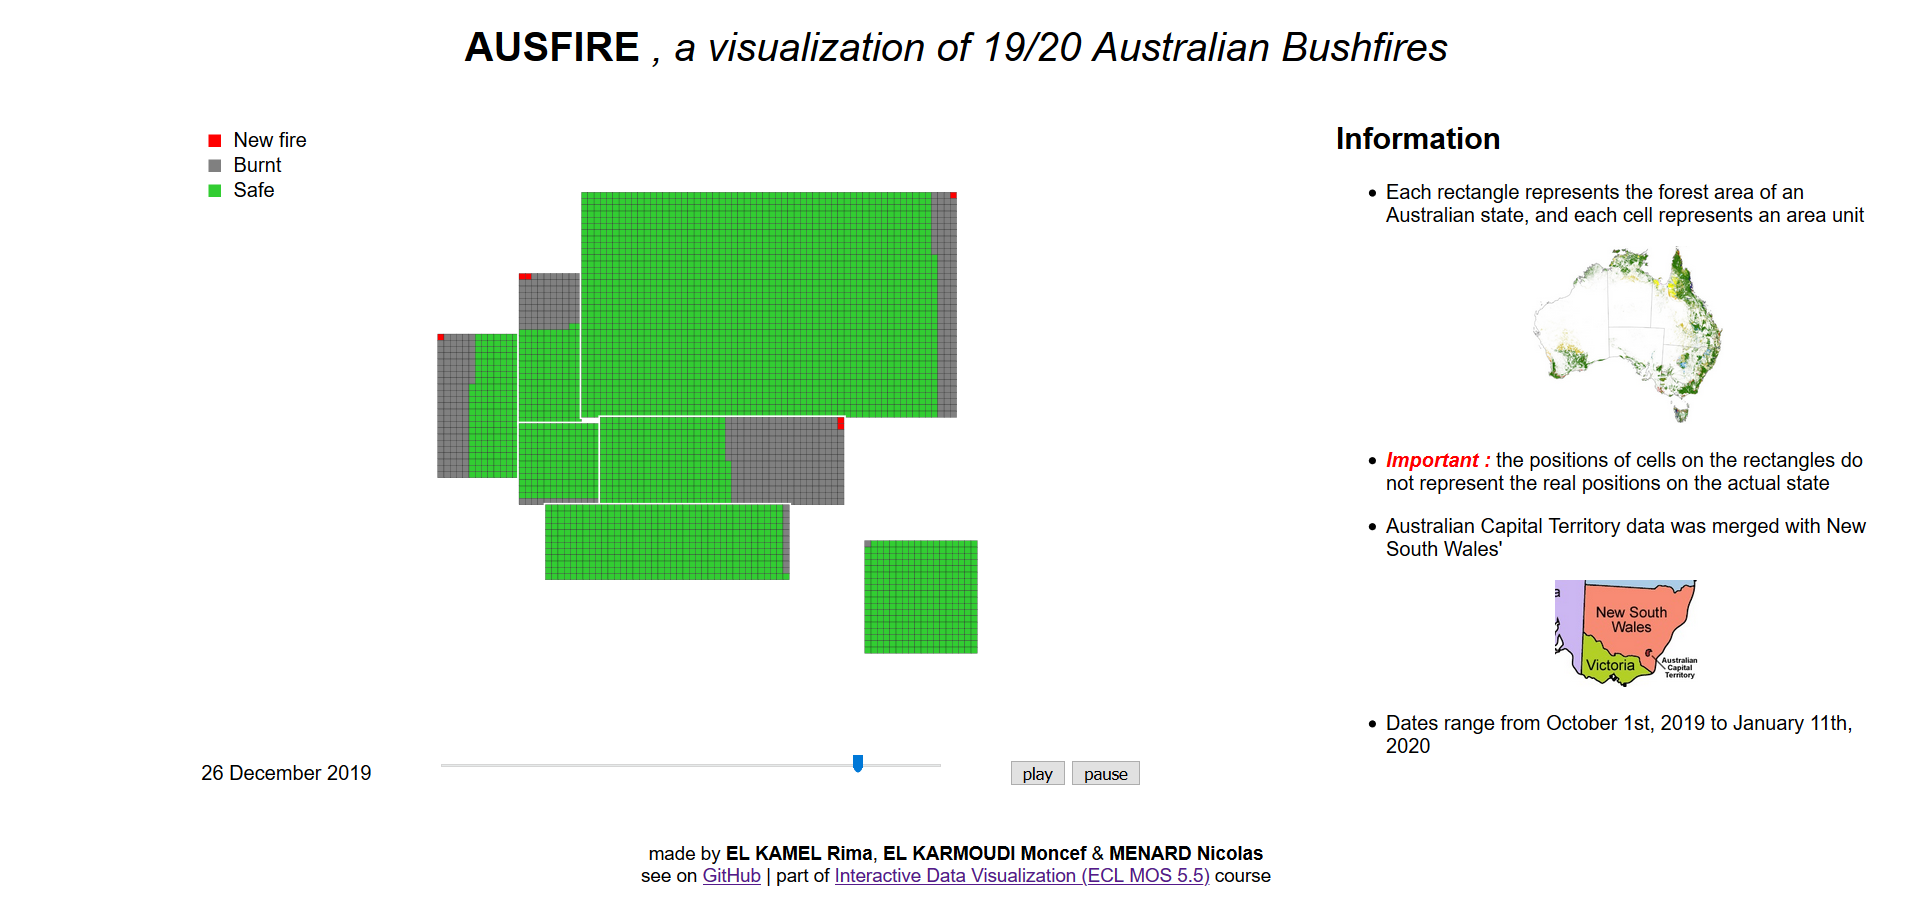
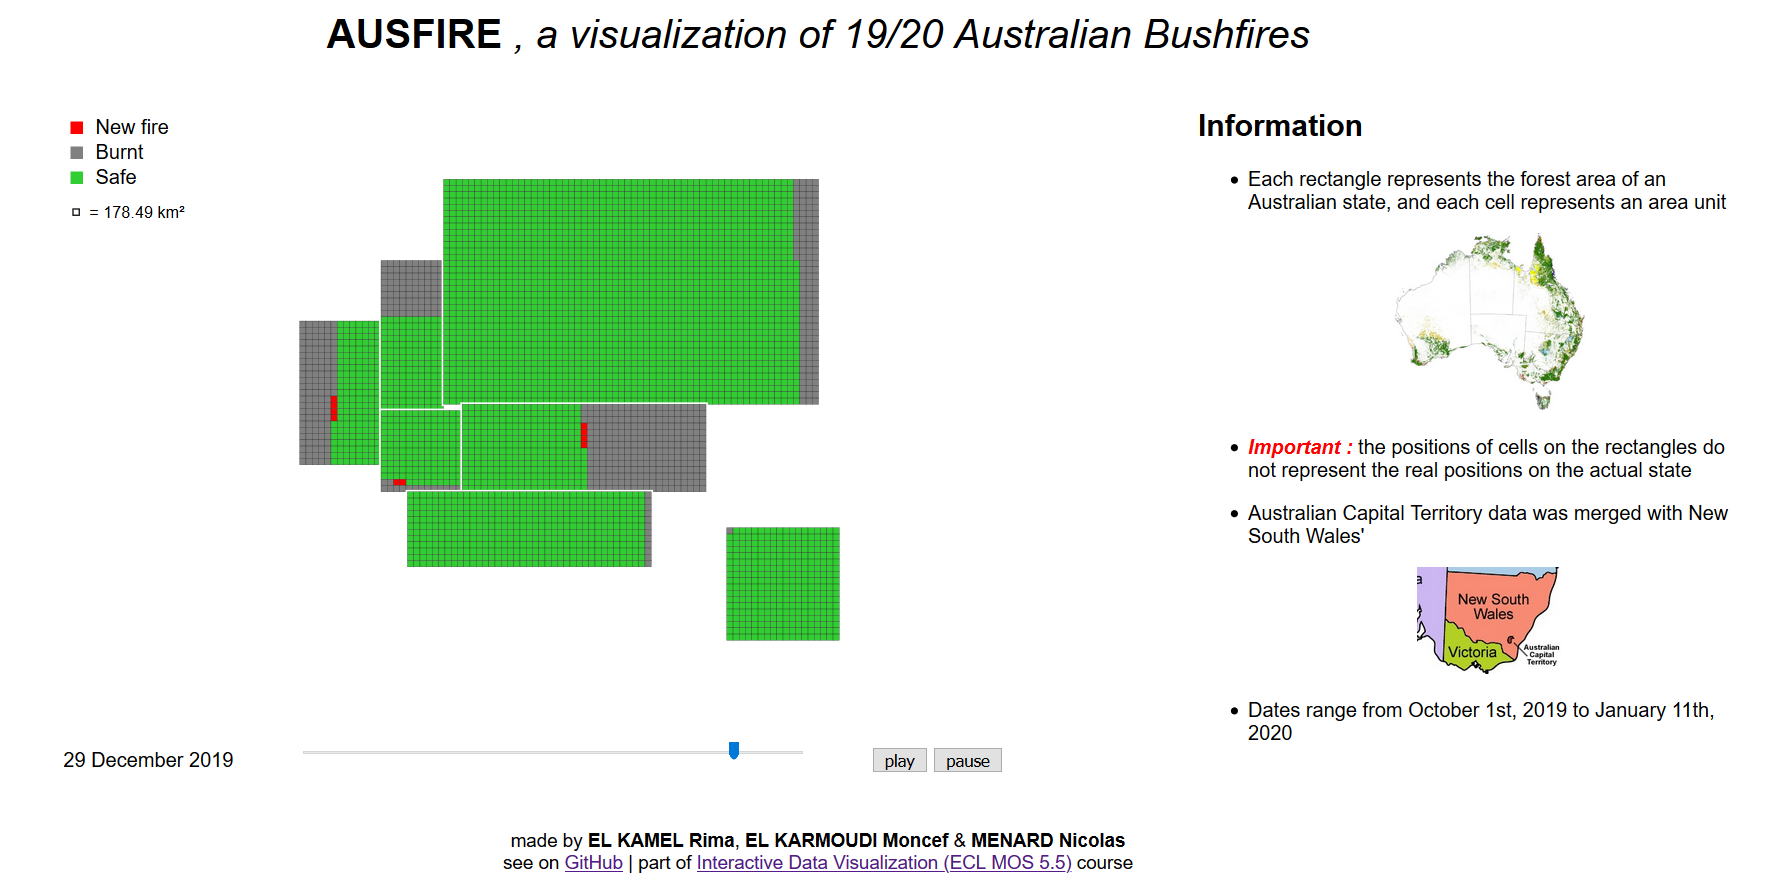
update readme.md

diff --git a/index.html b/index.html
@@ -142,6 +142,7 @@ var states = [
 
 var normalization = 13;
 var unite = 5;
+var unite_area = 0;
 
 var total_population = 0;
 
@@ -153,7 +154,10 @@ states.forEach(function(d){
   d.x = d.x; d.y = d.y + 150;
 
   total_population += d.population;
+  unite_area += d.forest / (d.nb_w * d.nb_h);
 })
+
+unite_area = unite_area / 7;
 
 var date_list = [];
 d3.csv("bystate/New%20South%20Wales.csv", function(data) {  
@@ -275,8 +279,9 @@ function colorize(myDate, myState) {
 
       myState.fire = (fire_area + old_fire_area) / forest_area;
 
-      var seuil_fire = parseInt(state_nb_w * state_nb_h * fire_area / forest_area);
-      var seuil_old_fire = seuil_fire + parseInt(state_nb_w * state_nb_h * old_fire_area / forest_area);
+      var seuil_old_fire = parseInt(state_nb_w * state_nb_h * old_fire_area / forest_area);
+      var seuil_fire = seuil_old_fire + parseInt(state_nb_w * state_nb_h * fire_area / forest_area);
+      
 
       if (direction == 'D') { coloring_down(state_nb_h, state_nb_w, seuil_fire, seuil_old_fire, postal_code); }
       else if (direction == 'R') { coloring_right(state_nb_h, state_nb_w, seuil_fire, seuil_old_fire, postal_code); }
@@ -331,12 +336,12 @@ function coloring_left(state_nb_h, state_nb_w, seuil_fire, seuil_old_fire, posta
 }
 
 function coloring_cell(compteur, seuil_fire, seuil_old_fire, postal_code, row, column) {
-    if (compteur <= seuil_fire) {
-      svg.select("."+ postal_code + "_" + row + "_" + column)
-      .style("fill", "red")
-    } else if (compteur <= seuil_old_fire) {
+    if (compteur <= seuil_old_fire) {
       svg.select("."+ postal_code + "_" + row + "_" + column)
       .style("fill", "grey")
+    } else if (compteur <= seuil_fire) {
+      svg.select("."+ postal_code + "_" + row + "_" + column)
+      .style("fill", "red")
     } else {
       svg.select("."+ postal_code + "_" + row + "_" + column)
       .style("fill", "limegreen")
@@ -496,6 +501,20 @@ function draw_legend() {
       .attr("y", 15 + 25 + jump*i)
       .text(d.name);
     })
+
+    svg.append("rect")
+    .attr("x", 32)
+    .attr("y", 100)
+    .attr("width", unite)
+    .attr("height", unite)
+    .style("fill", "white")
+    .style("stroke", "black")
+
+    svg.append("text")
+    .attr("x", 45)
+    .attr("y", 107)
+    .text('=  ' + unite_area.toFixed(2) + ' km²')
+    .style("font-size", "13px");
     
 }
 

diff --git a/README.md b/README.md
@@ -1,28 +1,48 @@
 # AUSFIRE
 
-A visualization of 19/20 Australian Bushfires, part of the Interactive Data Visualization (ECL MOS 5.5) course.
+A visualization of 19/20 Australian Bushfires, part of the [Interactive Data Visualization (ECL MOS 5.5)](https://github.com/LyonDataViz/MOS5.5-Dataviz) course.
 
 ## Participants
 
-* EL KAMEL Rima
-* EL KARMOUDI Moncef
-* MENARD Nicolas
+* EL KAMEL Rima ([RimaElkamel](https://github.com/RimaElkamel))
+* EL KARMOUDI Moncef ([melkarmo](https://github.com/melkarmo))
+* MENARD Nicolas ([MENARDM](https://github.com/MENARDN))
 
 ## Description of the project
 
 This project consists on the visualization of the 19/20 Australian Bushfires evolution from October 2019 to 11th January 2020 by state.  
-Each state is displayed as a grid which total area is defined according to its forest cover area.  
-Each cell of a grid shows a freshly-burning area, an already-burning area, or a sane area.
+* Each state is displayed as a grid which total area is defined according to its forest cover area.  
+* Each cell of a grid shows a freshly-burning area, an already-burning area, or a sane area.
 
-## Screenshots
+## Screenshot
 
 ![image](https://melkarmo.github.io/AUSFIRE/images/screenshot.PNG)
 
 ## Data
 
-The data used was 
+The main data source used for our project is the "Fires from Space: Australia" dataset which consists of fire starts detected by NASA MODIS satellite : the dataset includes the geolocalisation of these fire starts (latitude, longitude), and the mean temperature and the power of the fires at each location.
+
+Australian states' data (name, area, forest cover, population) was found by a basic Wikipedia search.
+
+We then processed the data to group the fire starts by Australian state. The final datasets are located in the "bystate" file, and states' data is included in the 'index.html' code as it only consists of 7 states.
 
 ## Credits
 
-https://en.wikipedia.org/wiki/Forest_cover_by_state_or_territory_in_Australia
-https://en.wikipedia.org/wiki/States_and_territories_of_Australia
+Thank you for all your help !
+
+* NASA for making the data public, and kaggler [Carlos Paradis](https://www.kaggle.com/carlosparadis) for making it easy to access ([here](https://www.kaggle.com/carlosparadis/fires-from-space-australia-and-new-zeland#fire_nrt_M6_96619.csv)) ;
+
+* Wikipedia for Australian states' related [data](https://en.wikipedia.org/wiki/Forest_cover_by_state_or_territory_in_Australia) ;
+
+
+* [Ajay Thampi](https://github.com/thampiman) for the [Reverse Geocoder](https://github.com/thampiman/reverse-geocoder) python package that allows offline and quick reverse geocoding on massive data ;
+
+* [Let's Make a Grid with D3.js](https://bl.ocks.org/cagrimmett/07f8c8daea00946b9e704e3efcbd5739) ;
+
+* [D3 HTML Range Slider Play/Pause](https://jsfiddle.net/bfbun6cc/4/) ;
+
+* [Rect Collision](http://bl.ocks.org/natebates/273b99ddf86e2e2e58ff) ;
+
+* [Flaticon](https://www.flaticon.com/)'s flame icon ;
+
+* LyonDataViz and Centrale Lyon for the Interactive DataViz [course](https://github.com/LyonDataViz/MOS5.5-Dataviz).
